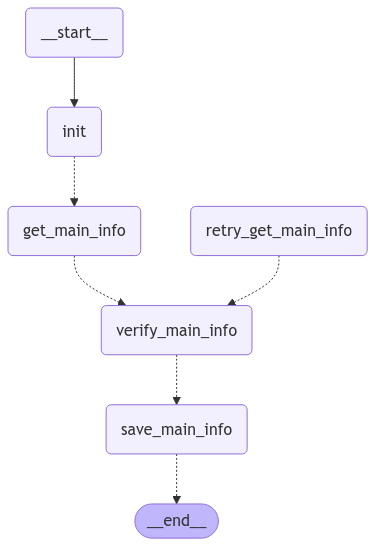
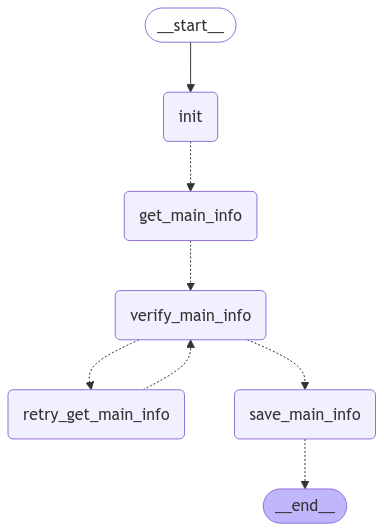
Update extract_main_data.png

diff --git a/src/agents/extract_main_data_agent.py b/src/agents/extract_main_data_agent.py
@@ -126,7 +126,7 @@ def _get_main_info(
 
 def _verfiy_main_info(
     state: ExtractMainDataState,
-) -> Command[Literal["save_main_info"]]:
+) -> Command[Literal["save_main_info", "retry_get_main_info"]]:
     """Verifies the extracted main information using an LLM."""
     info = state.main_info
     parser = JsonOutputParser(pydantic_object=VerifyResult)
